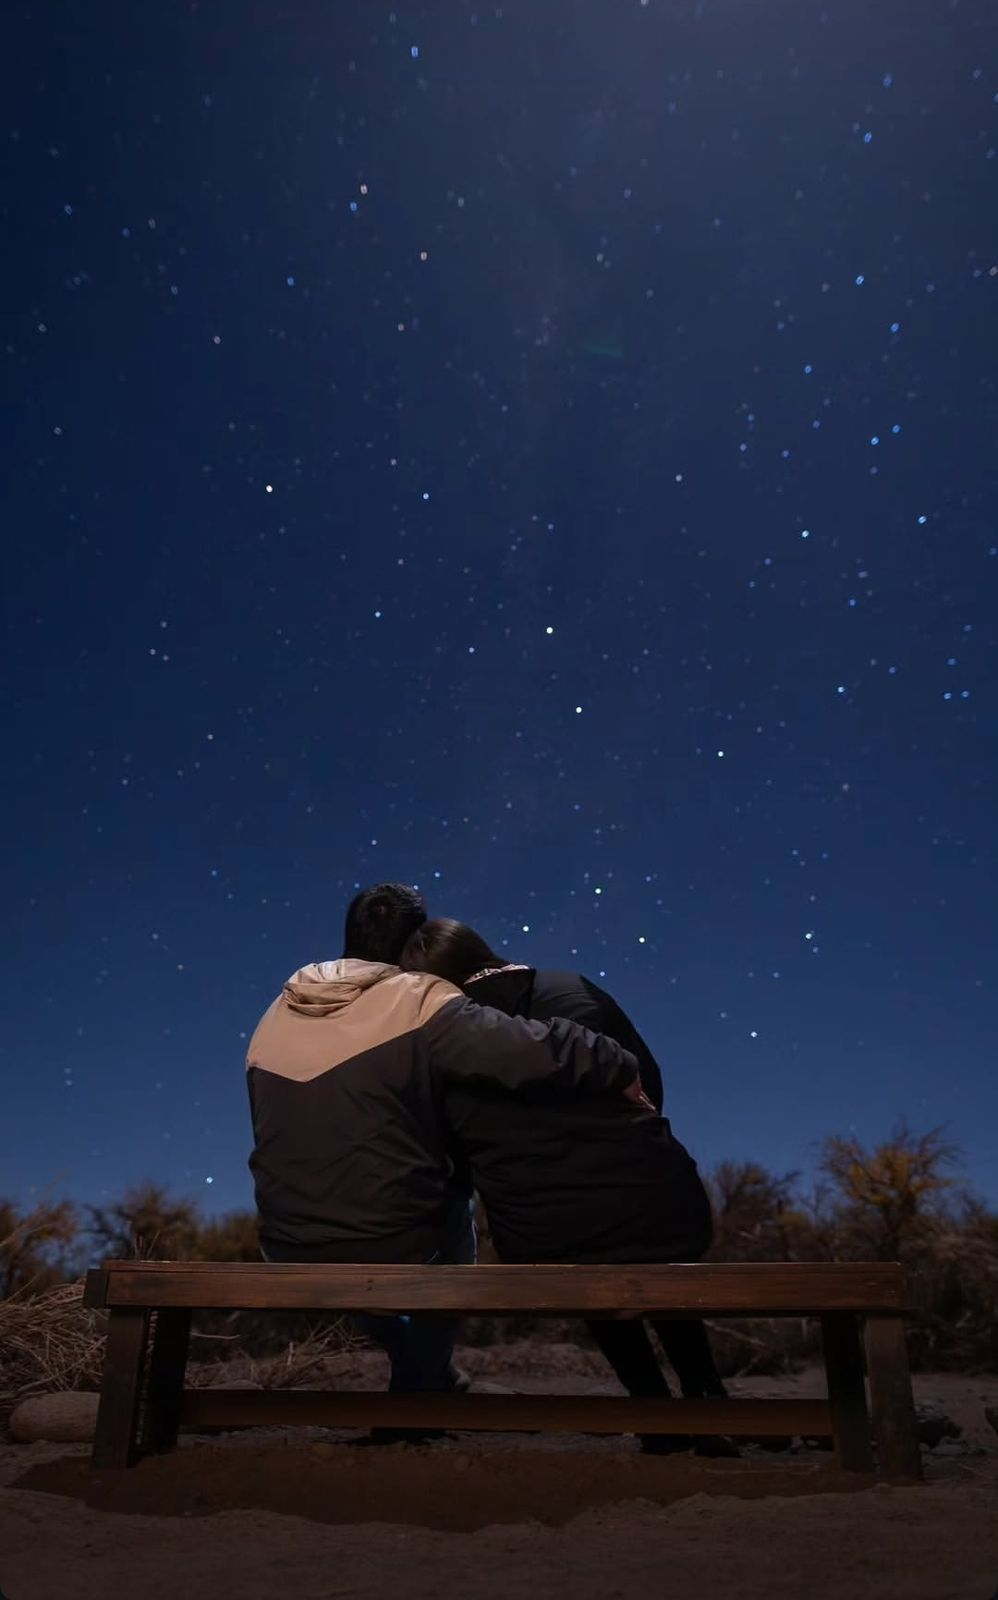
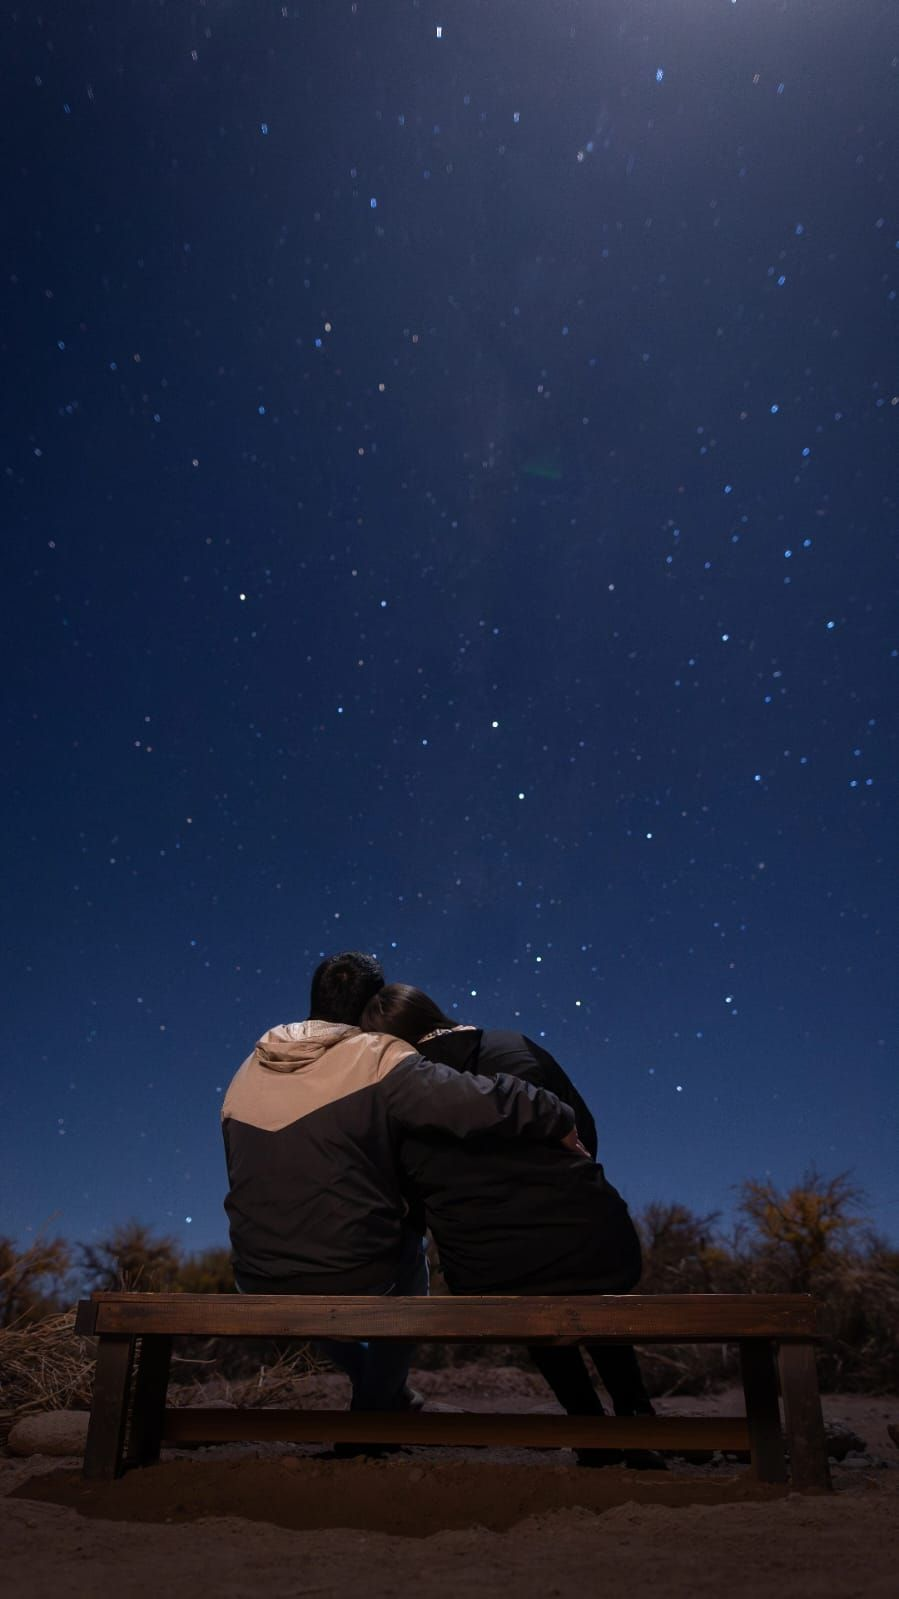
Agregar un pequeño book de fotos que cierra con Gracias por mirar
Claude-Session: https://claude.ai/code/session_01T97VSRo2xGjqssh9FaYk5C

diff --git a/aniversario/index.html b/aniversario/index.html
@@ -114,10 +114,19 @@
   .hero-photo { margin: 0; border-radius: 18px; overflow: hidden; aspect-ratio: 4 / 5; max-width: 100%; max-height: 620px; background: var(--ink); justify-self: end; width: 100%; }
   .hero-photo img { width: 100%; height: 100%; object-fit: cover; object-position: center 70%; display: block; }
   @media (max-width: 820px) { .hero-main { grid-template-columns: 1fr; } .hero-photo { aspect-ratio: 4 / 5; justify-self: stretch; } }
-  .polaroid { margin: 0; background: var(--paper); padding: 10px 10px 14px; border-radius: 6px; box-shadow: 0 10px 30px rgba(23,48,63,.14); transform: rotate(2deg); display: grid; gap: 8px; max-width: 360px; justify-self: center; }
-  .polaroid img { display: block; width: 100%; aspect-ratio: 1 / 1; object-fit: cover; object-position: center 40%; border-radius: 3px; }
-  .polaroid figcaption { font-family: var(--display); color: var(--muted); text-align: center; font-size: 1rem; }
-  @media (prefers-reduced-motion: reduce) { .polaroid { transform: none; } }
+  .book { display: flex; gap: 20px; overflow-x: auto; scroll-snap-type: x mandatory; padding-bottom: 12px; -webkit-overflow-scrolling: touch; }
+  .page { flex: none; margin: 0; scroll-snap-align: start; display: grid; gap: 10px; align-content: start; }
+  .page .frame { height: 440px; max-height: 70vh; border-radius: 14px; overflow: hidden; position: relative; background: var(--ink); }
+  .page img { height: 100%; width: auto; display: block; }
+  .page figcaption { display: flex; gap: 10px; align-items: baseline; color: var(--muted); }
+  .page .num { font-size: .75rem; font-weight: 700; letter-spacing: .12em; color: var(--sea); font-variant-numeric: tabular-nums; }
+  .page figcaption span:last-child { font-family: var(--display); font-size: 1.1rem; color: var(--ink); }
+  .page.end .frame::after {
+    content: "Gracias por mirar"; position: absolute; left: 50%; top: 7%; transform: translateX(-50%);
+    background: rgba(20,20,20,.82); color: #fff; font: 600 .95rem var(--body); padding: 7px 12px; border-radius: 6px; white-space: nowrap;
+  }
+  .book-hint { font-size: .9rem; color: var(--muted); }
+  @media (max-width: 520px) { .page .frame { height: 360px; } }
   .lightbox {
     position: fixed; inset: 0; z-index: 50; background: rgba(12,26,34,.92);
     display: grid; grid-template-rows: 1fr auto; gap: 12px;
@@ -210,7 +219,6 @@
 
   footer { padding-block: 40px 56px; border-top: 1px solid var(--line); text-align: center; color: var(--muted); }
   footer { display: grid; gap: 8px; justify-items: center; }
-  .footer-photo { width: 220px; max-width: 100%; aspect-ratio: 3 / 4; object-fit: cover; object-position: center 35%; border-radius: 999px 999px 18px 18px; margin-bottom: 16px; }
   footer .big { font-family: var(--display); font-size: 1.6rem; color: var(--ink); }
 
   @media (max-width: 820px) {
@@ -276,7 +284,6 @@
         <p class="sign">Los esperamos con muchas ganas,<br>Santi &amp; Floppy</p>
       </div>
       <div class="options">
-        <figure class="polaroid"><img src="fotos/nosotros-pisa.jpg" alt="Selfie de Santi y Floppy en lo alto de una torre, con cúpulas de fondo"><figcaption>Nosotros, de viaje</figcaption></figure>
         <div class="opt"><strong>Quedarte a dormir</strong><span>Venís el viernes o el sábado y te quedás las noches que quieras. Sábanas y toallas hay.</span></div>
         <div class="opt"><strong>Venir por el día</strong><span>Caés cuando quieras, comés, jugás y volvés. También vale.</span></div>
         <div class="opt"><strong>La casa ya está paga</strong><span>No tienen que poner plata para el alojamiento. Eso corre por nuestra cuenta.</span></div>
@@ -483,8 +490,20 @@
     </form>
   </section>
 
+  <section id="book">
+    <span class="eyebrow">Nosotros</span>
+    <h2>Un pequeño book</h2>
+    <p class="lead">Algunas fotos de estos años, para entrar en clima.</p>
+    <div class="book" tabindex="0" aria-label="Book de fotos de Santi y Floppy">
+      <figure class="page"><div class="frame"><img src="fotos/nosotros-cantando.jpg" alt="Santi y Floppy cantando juntos en un escenario, hace unos años"></div><figcaption><span class="num">01</span><span>Hace un tiempo…</span></figcaption></figure>
+      <figure class="page"><div class="frame"><img src="fotos/nosotros-pisa.jpg" alt="Selfie de Santi y Floppy en lo alto de una torre, con cúpulas de fondo"></div><figcaption><span class="num">02</span><span>De viaje</span></figcaption></figure>
+      <figure class="page"><div class="frame"><img src="fotos/nosotros-perros.jpg" alt="Santi y Floppy agachados en un bosque con sus dos perros"></div><figcaption><span class="num">03</span><span>La familia de cuatro patas</span></figcaption></figure>
+      <figure class="page end"><div class="frame"><img src="fotos/nosotros-bn.jpg" alt="Selfie en blanco y negro de Santi y Floppy con anteojos de sol"></div><figcaption><span class="num">04</span><span>Fin</span></figcaption></figure>
+    </div>
+    <p class="book-hint">Deslizá para ver todas →</p>
+  </section>
+
   <footer>
-    <img class="footer-photo" src="fotos/nosotros-bn.jpg" alt="Selfie en blanco y negro de Santi y Floppy con anteojos de sol">
     <p class="big">Los esperamos en Bella Vista</p>
     <p>Santi &amp; Floppy · 23 al 26 de octubre de 2026</p>
   </footer>
